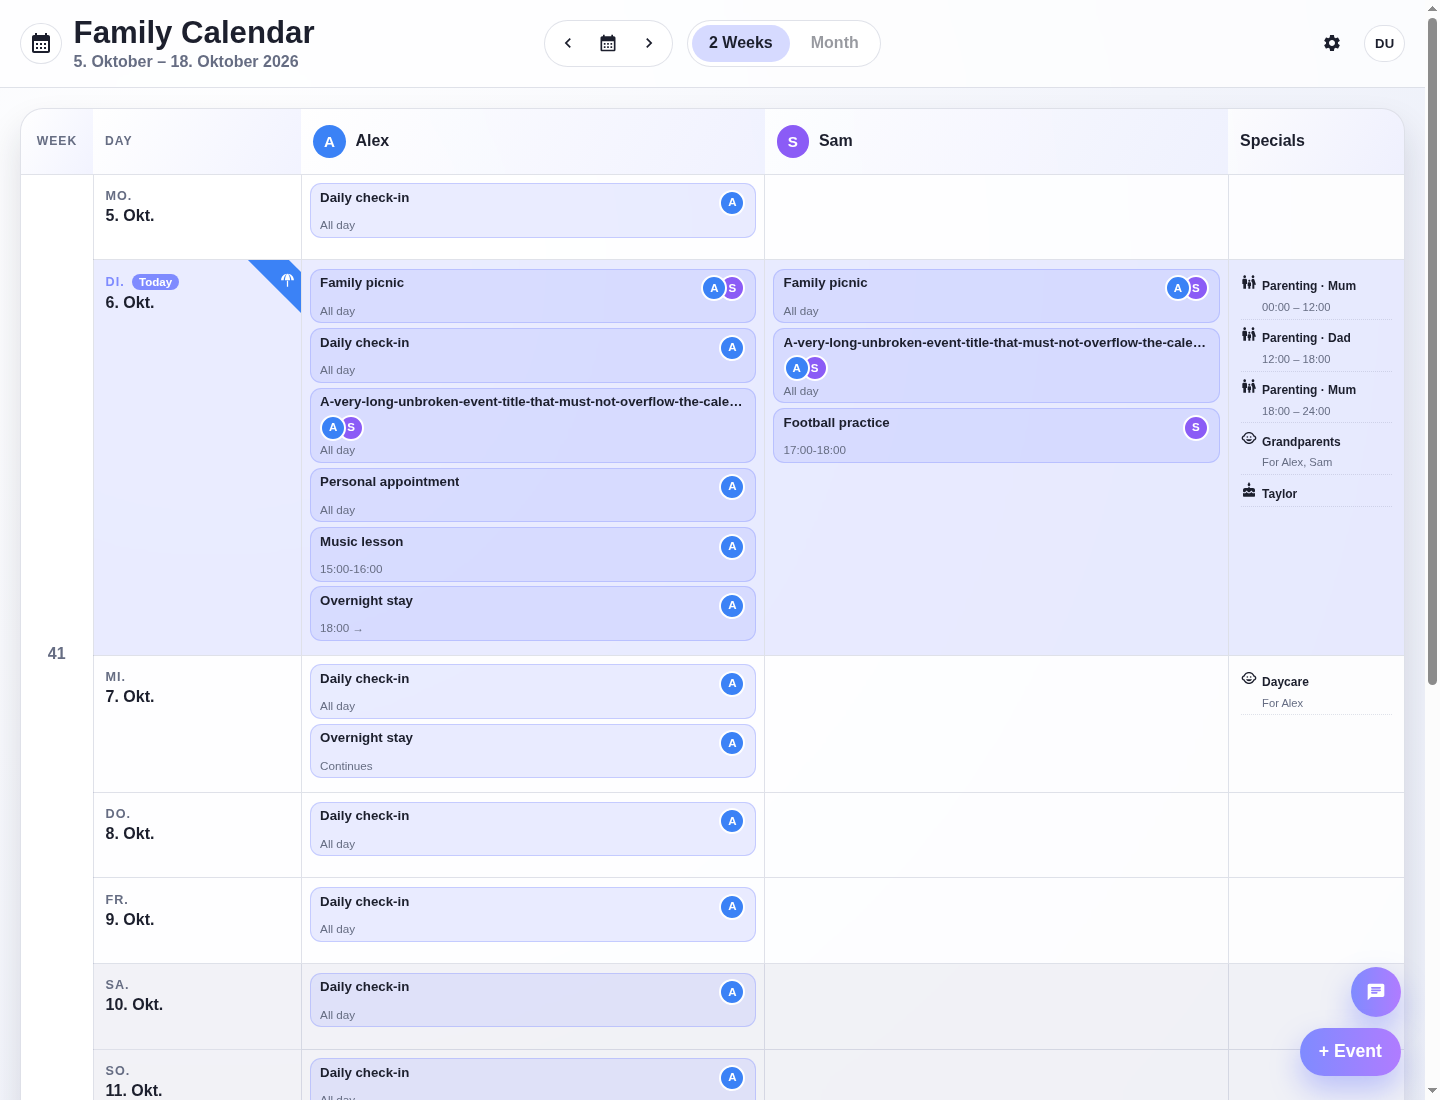
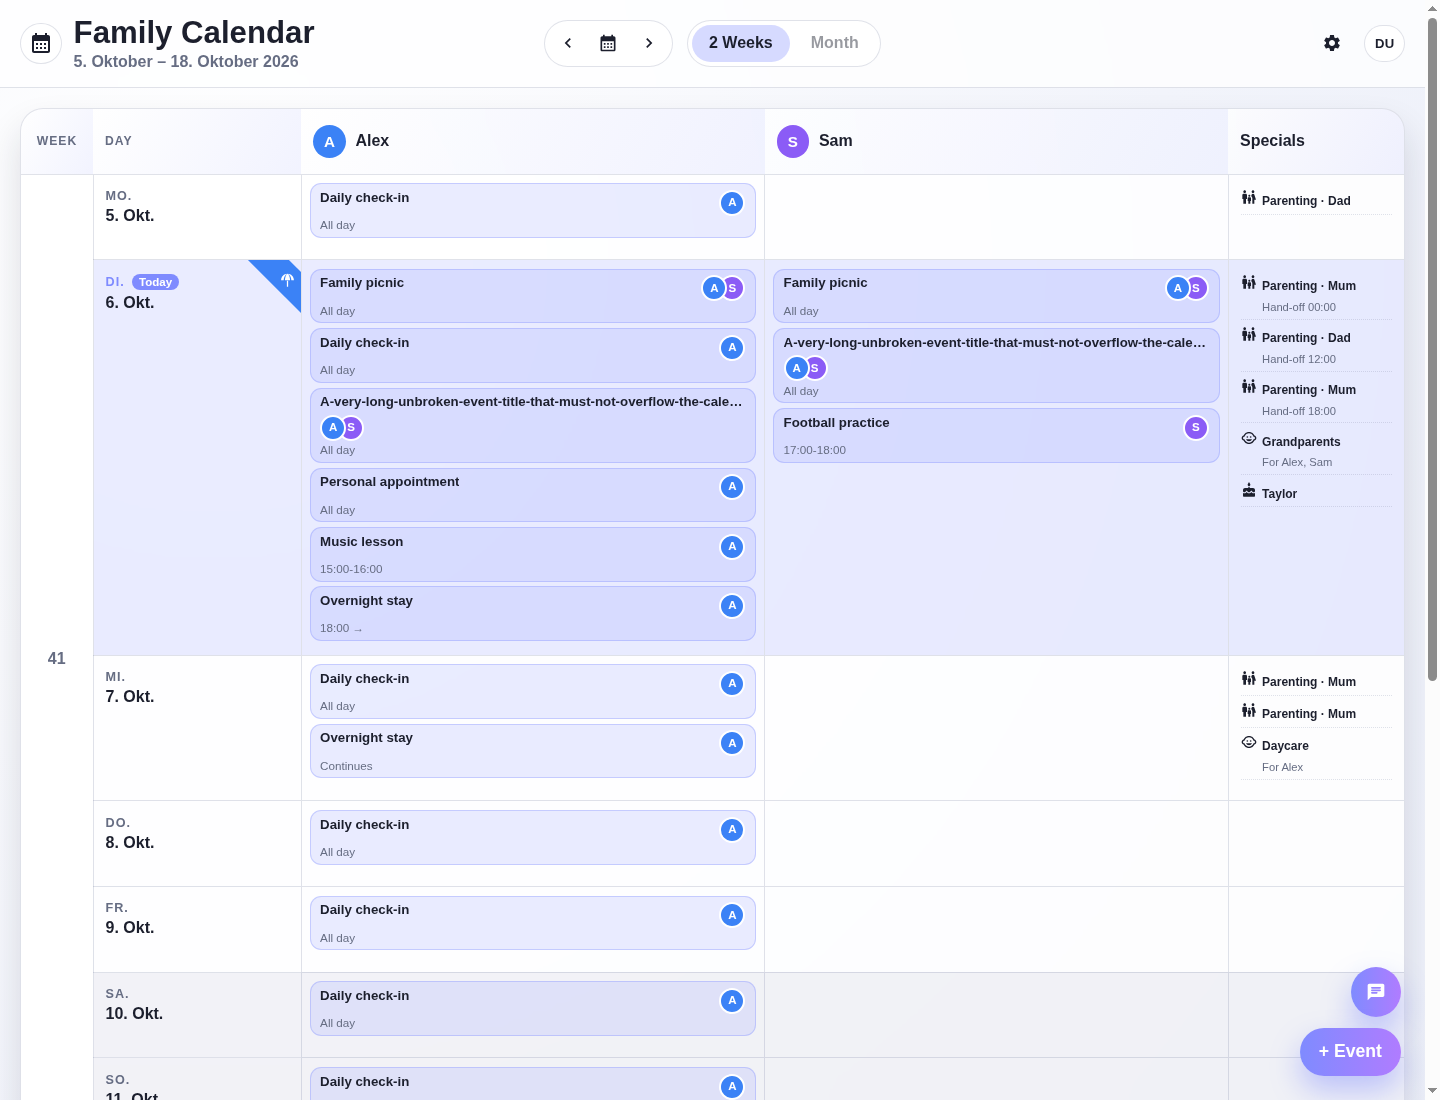
Show parenting hand-off times instead of period ranges

diff --git a/frontend/src/pages/DashboardPage.stories.tsx b/frontend/src/pages/DashboardPage.stories.tsx
@@ -10,18 +10,25 @@ const date = `${today.getFullYear()}-${String(today.getMonth() + 1).padStart(2, 
 const tomorrow = new Date(today);
 tomorrow.setDate(tomorrow.getDate() + 1);
 const tomorrowDate = `${tomorrow.getFullYear()}-${String(tomorrow.getMonth() + 1).padStart(2, "0")}-${String(tomorrow.getDate()).padStart(2, "0")}`;
+const followingMidnight = new Date(`${tomorrowDate}T00:00`);
+followingMidnight.setDate(followingMidnight.getDate() + 1);
 const yesterday = new Date(today);
 yesterday.setDate(yesterday.getDate() - 1);
 const yesterdayDate = `${yesterday.getFullYear()}-${String(yesterday.getMonth() + 1).padStart(2, "0")}-${String(yesterday.getDate()).padStart(2, "0")}`;
 const momId = "00000000-0000-0000-0000-000000000001";
 const dadId = "00000000-0000-0000-0000-000000000002";
 const parentingIntervals: ResolvedParentingInterval[] = [
+  { startAt: new Date(`${yesterdayDate}T00:00`).toISOString(), endAt: new Date(`${date}T00:00`).toISOString(),
+    partyId: dadId, partyName: "Dad", source: { type: "plan", planId: "plan" } },
   { startAt: new Date(`${date}T00:00`).toISOString(), endAt: new Date(`${date}T12:00`).toISOString(),
     partyId: momId, partyName: "Mum", source: { type: "plan", planId: "plan" } },
   { startAt: new Date(`${date}T12:00`).toISOString(), endAt: new Date(`${date}T18:00`).toISOString(),
     partyId: dadId, partyName: "Dad", source: { type: "change", changeId: "swap", label: "Agreed swap" } },
-  { startAt: new Date(`${date}T18:00`).toISOString(), endAt: new Date(`${tomorrowDate}T00:00`).toISOString(),
+  { startAt: new Date(`${date}T18:00`).toISOString(), endAt: new Date(`${tomorrowDate}T12:00`).toISOString(),
     partyId: momId, partyName: "Mum", source: { type: "plan", planId: "plan" } },
+  { startAt: new Date(`${tomorrowDate}T12:00`).toISOString(),
+    endAt: followingMidnight.toISOString(),
+    partyId: momId, partyName: "Mum", source: { type: "change", changeId: "same-party", label: "Same-party adjustment" } },
 ];
 const childcareOccurrences = [
   {
@@ -281,9 +288,11 @@ export const ParentingTime: Story = {
     const canvas = within(canvasElement);
     const page = within(canvasElement.ownerDocument.body);
     await waitFor(() => expect(canvasElement.querySelectorAll(".today-row .calendar-parenting-entry")).toHaveLength(3));
-    const parentingEntry = canvas.getByText("Parenting · Dad").closest(".calendar-parenting-entry")!;
+    const todayRow = within(canvasElement.querySelector(".today-row") as HTMLElement);
+    const parentingEntry = todayRow.getByText("Parenting · Dad").closest(".calendar-parenting-entry")!;
     await expect(parentingEntry).toBeVisible();
-    await expect(parentingEntry.textContent).toBe("Parenting · Dad12:00 – 18:00");
+    await expect(parentingEntry.textContent).toBe("Parenting · DadHand-off 12:00");
+    await expect(parentingEntry.getAttribute("title")).toContain("12:00 – 18:00");
     await expect(canvas.queryByText("One-off change · Agreed swap")).toBeNull();
     await expect(parentingEntry.querySelector("summary")).toBeNull();
     const childcareEntry = canvasElement.querySelector(".today-row .calendar-childcare-entry")!;
@@ -303,8 +312,19 @@ export const ParentingTime: Story = {
     await expect(canvas.queryByText("Handover from Mum at 12:00")).toBeNull();
     await expect(canvas.queryByText("Handover to Mum at 18:00")).toBeNull();
     const normalEntry = canvasElement.querySelector(".today-row .calendar-parenting-entry")!;
-    await expect(normalEntry.textContent).toBe("Parenting · Mum00:00 – 12:00");
+    const previousDayVisible = Boolean(canvasElement.querySelector(`[title^="Parenting · Dad · All day"]`));
+    await expect(normalEntry.textContent).toBe(previousDayVisible ? "Parenting · MumHand-off 00:00" : "Parenting · Mum");
     await expect(normalEntry.getAttribute("title")).toContain("Normal plan");
+    const returningEntry = canvasElement.querySelectorAll(".today-row .calendar-parenting-entry")[2]!;
+    await expect(returningEntry.textContent).toBe("Parenting · MumHand-off 18:00");
+    const continuingEntries = Array.from(canvasElement.querySelectorAll(".calendar-parenting-entry"))
+      .filter((entry) => entry.getAttribute("title")?.includes("Same-party adjustment")
+        || entry.getAttribute("title")?.startsWith("Parenting · Mum · 00:00 – 12:00 · Normal plan:")
+          && !entry.closest(".today-row"));
+    for (const entry of continuingEntries) {
+      await expect(entry.textContent).toBe("Parenting · Mum");
+      await expect(entry.querySelector("small")).toBeNull();
+    }
     await expect(canvas.queryByRole("button", { name: "Open event Parenting · Dad" })).toBeNull();
     await userEvent.click(canvas.getByTitle("Create event"));
     await fireEvent.change(await page.findByRole("textbox", { name: /^Title/ }), { target: { value: "Personal appointment" } });

diff --git a/frontend/src/pages/DashboardPage.tsx b/frontend/src/pages/DashboardPage.tsx
@@ -96,6 +96,7 @@ function ParentingCalendarEntry({ interval, day, intervals }: {
   const partyName = interval.partyName ?? "Parenting party";
   const timeLabel = start <= day && end >= nextDay ? "All day"
     : `${start <= day ? "00:00" : time(start)} – ${end >= nextDay ? "24:00" : time(end)}`;
+  const handOffTime = previous && start >= day && start < nextDay ? time(start) : null;
   const details = [
     timeLabel,
     `${change ? "Adjusted responsibility" : "Normal plan"}: ${start.toLocaleString()} – ${end.toLocaleString()}`,
@@ -109,7 +110,7 @@ function ParentingCalendarEntry({ interval, day, intervals }: {
       aria-label={`Parenting: ${partyName}. ${details}`}>
       <FamilyRestroomIcon className="calendar-special-icon" fontSize="small" aria-hidden="true" />
       <strong>Parenting · {partyName}</strong>
-      <small>{timeLabel}</small>
+      {handOffTime && <small>Hand-off {handOffTime}</small>}
     </div>
   );
 }

diff --git a/docs/PRODUCT_OVERVIEW.md b/docs/PRODUCT_OVERVIEW.md
@@ -34,7 +34,7 @@ Payments, booking, capacity, and attendance are outside this implementation. See
 
 Parenting Time helps separated or divorced parents plan when all children in a household are scheduled to be with each parenting party. Settings → Parenting Time supports creating, editing, archiving, and restoring parties; defining a recurring schedule from one or more handovers (weekly, odd ISO weeks, or even ISO weeks); previewing the upcoming schedule through the server-side resolver; and adding, editing, or removing dated changes for a selected period. The plan applies to all children in the household and is for practical planning, not legal advice or proof of custody.
 
-The household calendar loads persisted resolved intervals for its visible two-week range, separately from events and childcare. Parenting entries show only the parenting title (including the responsible party) and time; hover over an entry for interval details, one-off adjustments, and handovers, like childcare entries. These details are also included in the accessible label. The read-only `check_parenting_responsibility` agent tool checks an explicitly supplied household parenting party against a proposed timestamp range and explains overlaps or why responsibility cannot be determined. It never infers who “me” is.
+The household calendar loads persisted resolved intervals for its visible two-week range, separately from events and childcare. Parenting entries show the parenting title (including the responsible party) and the incoming hand-off time when responsibility changes on that day, rather than the whole period. Continuing periods and same-party adjustments show the party without a time label; the calendar does not infer a hand-off at a clipped range boundary. Hover over an entry for the full interval, one-off adjustments, and handovers, like childcare entries. These details are also included in the accessible label. The read-only `check_parenting_responsibility` agent tool checks an explicitly supplied household parenting party against a proposed timestamp range and explains overlaps or why responsibility cannot be determined. It never infers who “me” is.
 
 The event dialog offers an optional personal-event responsibility check. Until secure user-to-party mapping exists, party selection and warnings are development-only (`npm run dev`); production explains that identity cannot yet be determined. Warnings never block saving, and only the proposed first occurrence of a recurring event is checked. Childcare does not transfer parenting responsibility. Automated reminders, messaging, approvals, and parenting arrangement changes through agents remain out of scope. See [Parenting time model and API](DATA_MODEL.md#parenting-time--persisted-plan-and-server-resolver).
 

diff --git a/CHANGELOG.md b/CHANGELOG.md
@@ -2,6 +2,8 @@
 
 ## Unreleased
 
+- Replaced visible parenting period ranges with incoming hand-off times; continuing periods and same-party adjustments retain the party label without a time. Full intervals remain available on hover. Updated screenshot: `/home/runner/work/family-butler-v2/family-butler-v2/docs/screenshots/household-calendar-parenting-time.png`.
+
 - Simplified parenting entries in Specials to show only title and time, with interval, adjustment, and handover details on hover like childcare records. Updated screenshot: `/home/runner/work/family-butler-v2/family-butler-v2/docs/screenshots/household-calendar-parenting-time.png`.
 
 - Removed parenting-time card borders in Specials and matched childcare's compact icon, text, and separator styling while retaining expandable handover details. Updated screenshot: `/home/runner/work/family-butler-v2/family-butler-v2/docs/screenshots/household-calendar-parenting-time.png`.
